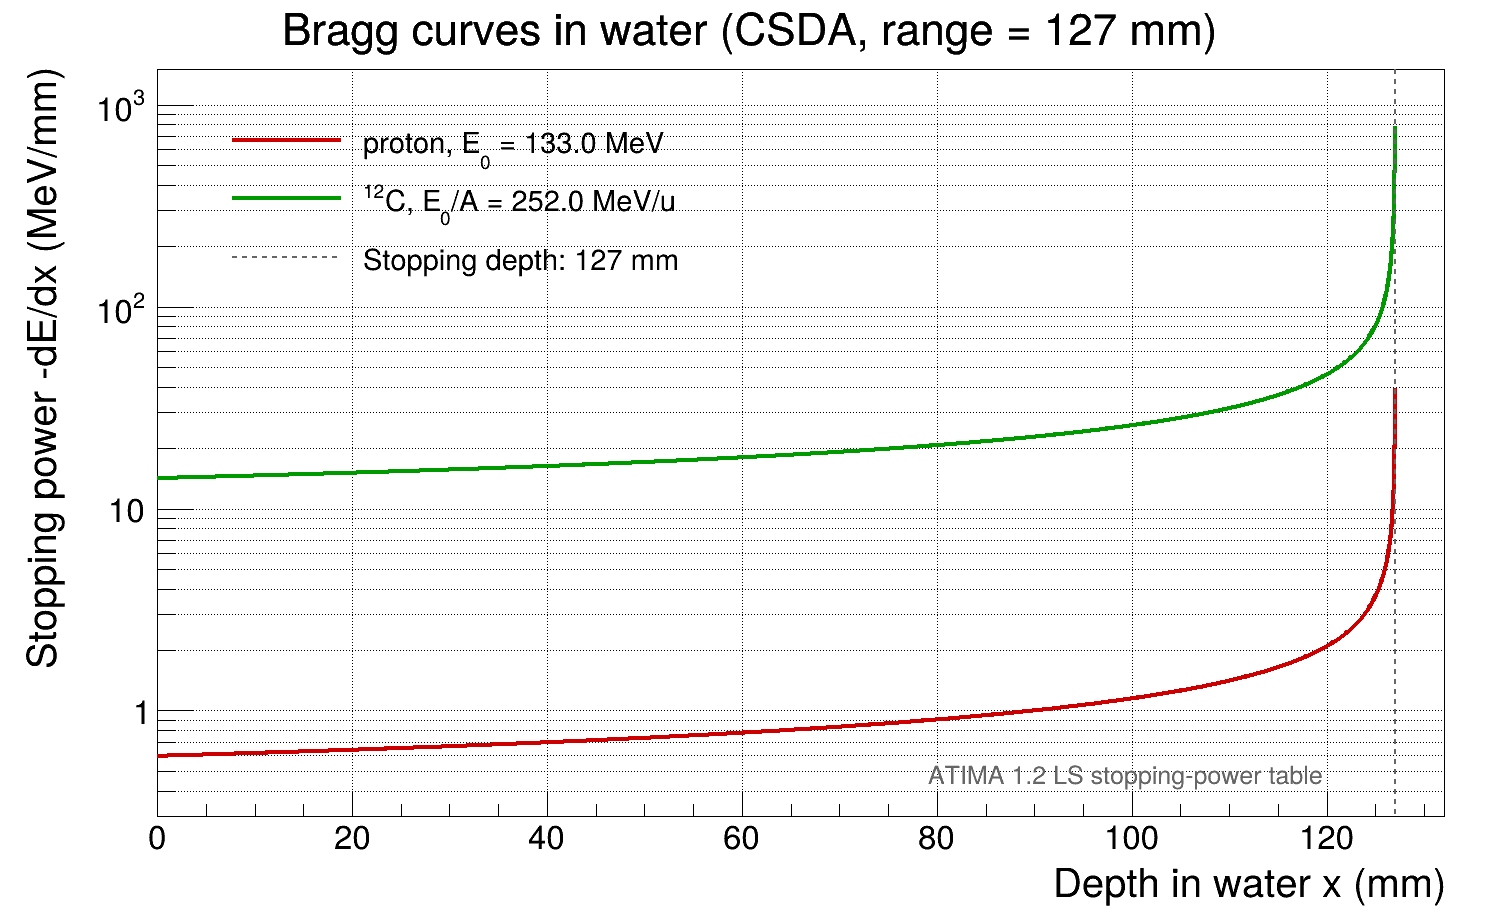
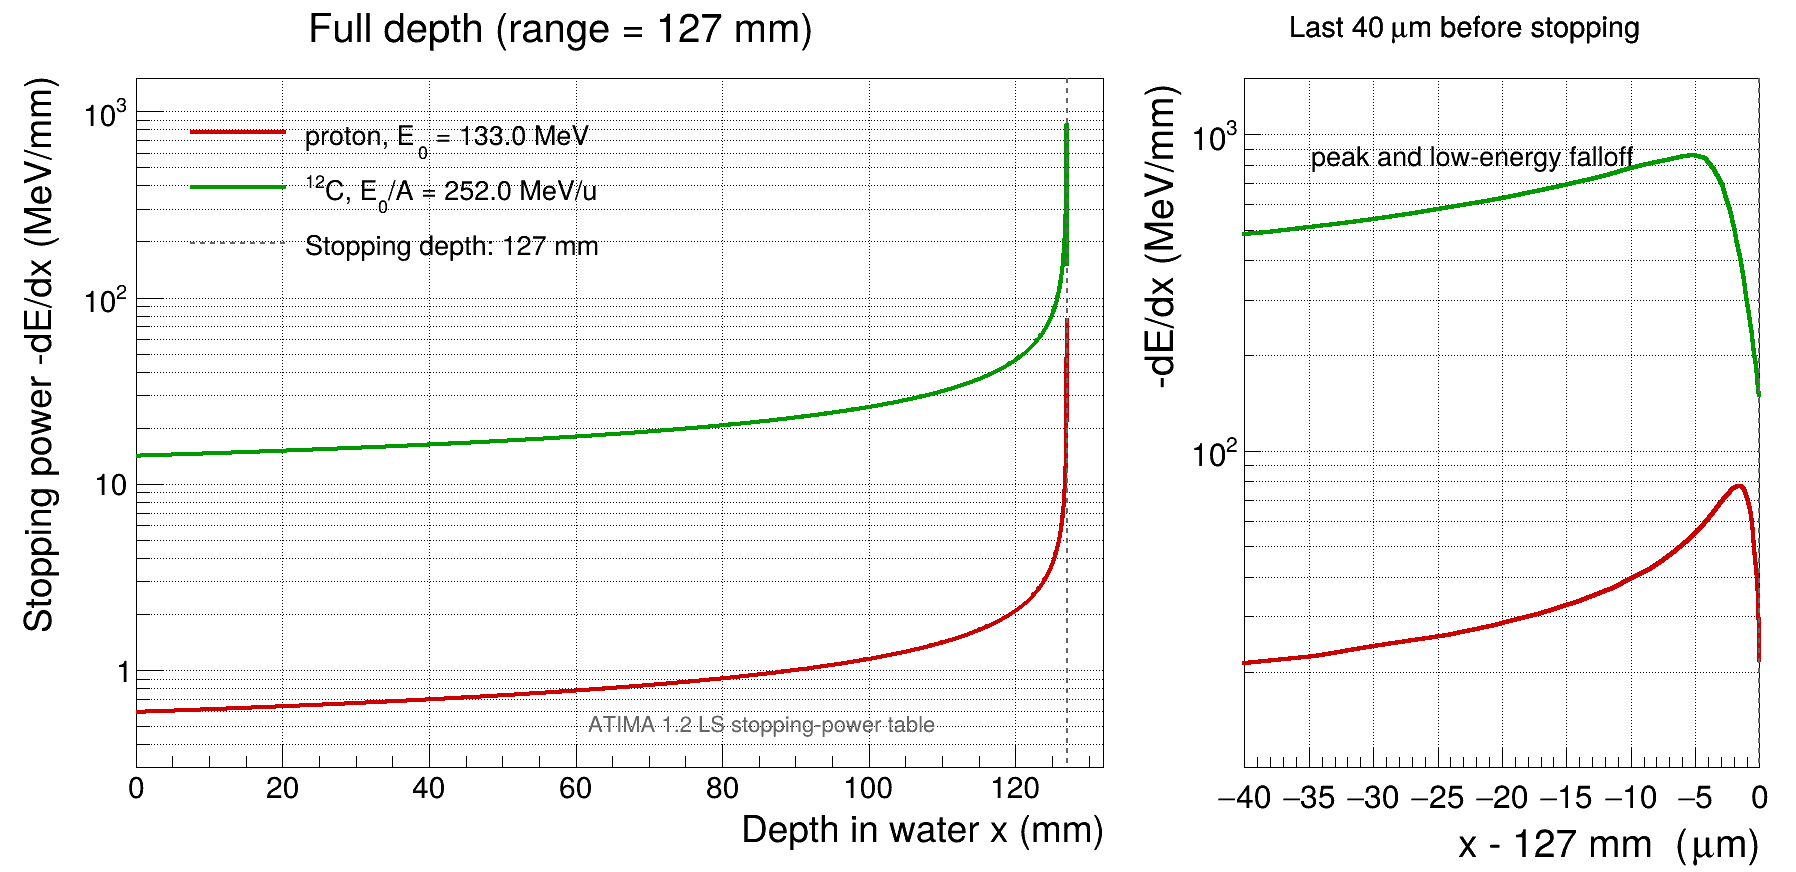
Show Bragg-peak falloff in endpoint zoom

diff --git a/chapt1/coursework1.1/1.1_bragg_curve.html b/chapt1/coursework1.1/1.1_bragg_curve.html
@@ -287,12 +287,12 @@ S(x)=S\!\left(\frac{E(x)}{A}\right)=S\!\left(\varepsilon(x)\right).
 <span class="math inline">\(x\)</span>（mm），纵轴为 <span
 class="math inline">\(-dE/dx\)</span>（MeV/mm）。用图例区分粒子；两条曲线量级相差较大时使用对数纵轴。</p>
 <h3 id="参考效果">参考效果</h3>
-<p>计算正确时，两条曲线都在约 127 mm 处终止，并在射程末端附近明显上升；<span
-class="math inline">\(^{12}\mathrm{C}\)</span> 的阻止本领整体高于质子。下图给出一种正常的显示效果。</p>
+<p>计算正确时，两条曲线都在约 127 mm 处终止，并在射程末端附近上升至峰值；峰后的低能下降集中在停止前的几个微米内。<span
+class="math inline">\(^{12}\mathrm{C}\)</span> 的阻止本领整体高于质子。下图给出一种正常的显示效果，右图放大了停止前最后 40 μm。</p>
 <figure>
-<img src="result.png" style="width:625px;max-width:100%;height:auto"
+<img src="result.png" style="width:820px;max-width:100%;height:auto"
 alt="质子和碳十二在水中具有相同射程时的 Bragg 曲线参考图">
-<figcaption>由同一套 ATIMA 1.2 LS 阻止本领数据计算的参考结果：质子（红）和 <span class="math inline">\(^{12}\mathrm{C}\)</span>（绿）在水中的射程均为 127 mm，纵轴采用对数刻度。</figcaption>
+<figcaption>由同一套 ATIMA 1.2 LS 阻止本领数据计算的参考结果：质子（红）和 <span class="math inline">\(^{12}\mathrm{C}\)</span>（绿）在水中的射程均为 127 mm；末端放大图显示了 Bragg 峰及其后的低能下降。</figcaption>
 </figure>
 <h2 id="离散积分">4. 用离散积分计算并比较</h2>
 <h3 id="固定位置步长">4.1 固定位置步长</h3>
